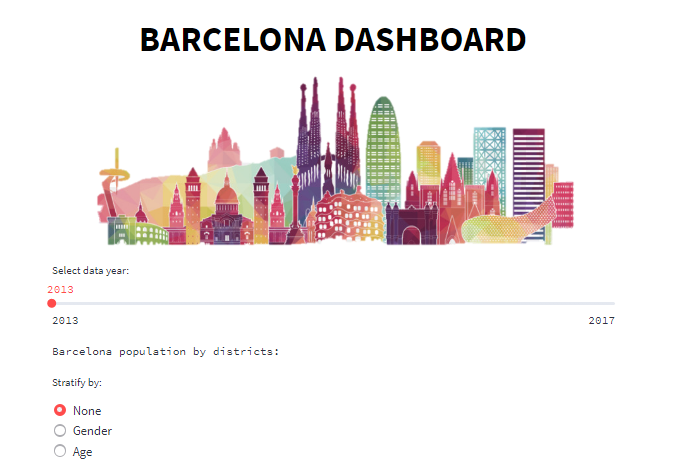
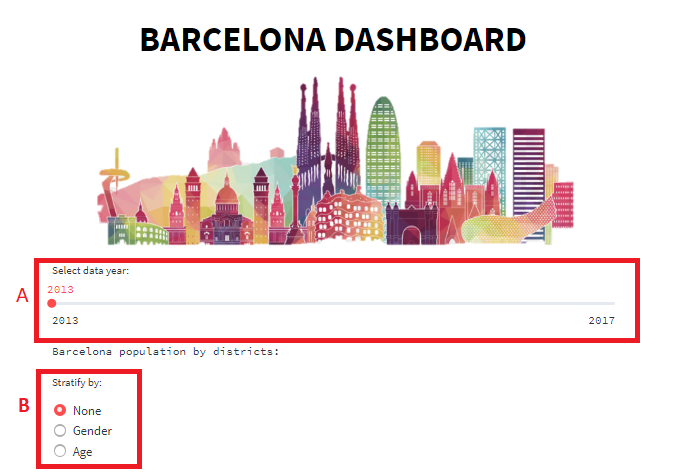
cambio en imagenes para el readme

Changed region(s): [[0.0308, 0.5339, 0.9559, 0.7415], [0.0308, 0.7712, 0.2159, 1.0]]

diff --git a/streamlit/main.py b/streamlit/main.py
@@ -16,8 +16,7 @@ if sidebar_selection == "Population and location by District":
 
     #Title and header image 
     st.markdown("<h1 style='text-align: center; color: black;'>BARCELONA DASHBOARD</h1>", unsafe_allow_html=True)
-
-    st.image('./images/barcelona_5.png')
+    st.image('./img/barcelona_5.png')
 
     #slider for select data year
     year = st.slider('Select data year:', 2013, 2017)
@@ -34,7 +33,7 @@ if sidebar_selection == "Population and location by District":
     st.pyplot(fig)
     
     #data download
-    st.download_button('Download data', convert_df(df_format),file_name="District_data.csv")
+    st.download_button('Download district data', convert_df(df_format),file_name="District_data.csv")
     with open("picture.png", "rb") as file:
         btn = st.download_button(
         label="Download graph",
@@ -51,8 +50,8 @@ if sidebar_selection == "Population and location by District":
 #page two: show Population and location by Neighborhood      
 if sidebar_selection =="Population and location by Neighborhood":
     #Title and header image 
-    st.title('BARCELONA DASHBOARD')
-    st.image('./images/barcelona_5.png')
+    st.markdown("<h1 style='text-align: center; color: black;'>BARCELONA DASHBOARD</h1>", unsafe_allow_html=True)
+    st.image('./img/barcelona_5.png')
 
     #slider for select data year
     year = st.slider('Select data year:', 2013, 2017)  
@@ -78,7 +77,7 @@ if sidebar_selection =="Population and location by Neighborhood":
     st.pyplot(fig)
     
     #data download
-    st.download_button('Download Neighborhood data', convert_df(df_format),file_name="Neighborhood.csv")
+    st.download_button('Download neighborhood data', convert_df(df_format),file_name="Neighborhood.csv")
     with open("picture.png", "rb") as file:
         btn = st.download_button(
         label="Download graph",
@@ -102,12 +101,12 @@ if sidebar_selection =="Population and location by Neighborhood":
 
 """      
 if sidebar_selection == "Transports":
-    st.title('BARCELONA DASHBOARD')
+    st.markdown("<h1 style='text-align: center; color: black;'>BARCELONA DASHBOARD</h1>", unsafe_allow_html=True)
     st.image('./barcelona_5.png')
     st.text("En construcción")
 
 if sidebar_selection == "About":
-    st.title('BARCELONA DASHBOARD')
+    st.markdown("<h1 style='text-align: center; color: black;'>BARCELONA DASHBOARD</h1>", unsafe_allow_html=True)
     st.image('./barcelona_5.png')
     st.text("En construcción")
     """

diff --git a/readme_bcn_dashborad.md b/readme_bcn_dashborad.md
@@ -2,20 +2,61 @@
 # Barcelona_Dashboard
 
 ## Descripción y objetivo:
-Barcelona_Dashboardes un proyecto academico con el objetivo es poner en practica los conocimientos aprendidos en el bootcamp de bigdata y machine learnig de 'https://www.corecode.school/'.
+Barcelona Dashboard es un proyecto académico con el cual podemos visualizar a través de diagramas de barras, la población de Barcelona en sus diferentes distritos y barrios. También, podemos estratificar la población por el año del padrón municipal, género y edad de los habitantes. Y visualizar en el mapa la ubicación de distritos y barrios.
 
-En su desarrollo se emplearon diferentes stacks tecnológicos  como  Python, Pandas,FastAPI, MongoDB y Streamlit (entre otros).
+El dataset ha sido descargado de: https://www.kaggle.com/datasets/xvivancos/barcelona-data-sets
+
+En su desarrollo se emplearon diferentes stacks tecnológicos como Python, Pandas, FastAPI, MongoDB y Streamlit (entre otros).
 
 ### Los pasos para realizar este proyecto fueron:
 - 1 Selección del dataset de Barcelona entre varias opciones.
-- 2 Exploracion del dataset y tratamiento de datos duplicados y nulos.
+- 2 Exploración del dataset y tratamiento de datos duplicados y nulos.
 - 3 Carga del dataset en MongoDB Atlas.
-- 4 Creacion de la API:
-    - Conexion con MongoDB.
-    - Creacion de la Main.
-    - Creacion/definición de los routers y endpoints.
+- 4 Creación de la API:
+    - Conexión con MongoDB.
+    - Creación de la Main.
+    - Creación/definición de los routers y endpoints.
 - 5 Creación del Streamlit:
-    - Conexion con la API
+    - Conexión con la API
     - Creación y parametrización de las visualizaciones.
+
+
+### 1-Descripción del Dashboard
+
+1.1 -Navegación:
+    En la barra lateral podemos seleccionar entre visualizar la población y ubicación por distrito.
+
+
+<p align="center">
+  <img src="https://raw.githubusercontent.com/luism1988/Barcelona_dashboard/main/img_readme/db1.png?token=GHSAT0AAAAAAB5ILY6AOKUSCYCSKQ2SAFPEZAA6S3Q" width="400">
+</p>
      
+1.2- Población y ubicación por distrito:
+
+- 1.2.1- Punto “A”: En la parte superior podemos seleccionar el año de visualización.
+
+- 1.2.2- Punto “B”: Podemos seleccionar la variable de es traficación (Ninguna, género o edad)
+
+- 1.2.3- Grafico de población por distrito:
+
+- 1.2.4- Grafico de población por distrito estratificado por genero:
+
+- 1.2.5- Grafico de población por distrito estratificado por edad:
+
+- 1.2.6- Grafico ubicación de los distritos:
+
+- 1.2.7- Boton de descarga de los datos en formato csv:
+
+1.3- Población y ubicación por barrio:
+- 1.3.1- Punto “A”: En la parte superior podemos seleccionar el año de visualización.
+
+- 1.3.2- Punto “B”: Seleccionar el distrito para visualizar la población y ubicación de los barrios que componen a éste.
+
+- 1.3.3- Punto “C”: Podemos seleccionar la variable de es traficación (Ninguna, género o edad).
+
+- 1.3.4- Grafico de población por barrios:
+
+- 1.3.5-Grafico ubicación de los barrios que conforman un distrito:
+
+- 1.3.6-Boton de descarga de los datos en formato csv:
 
